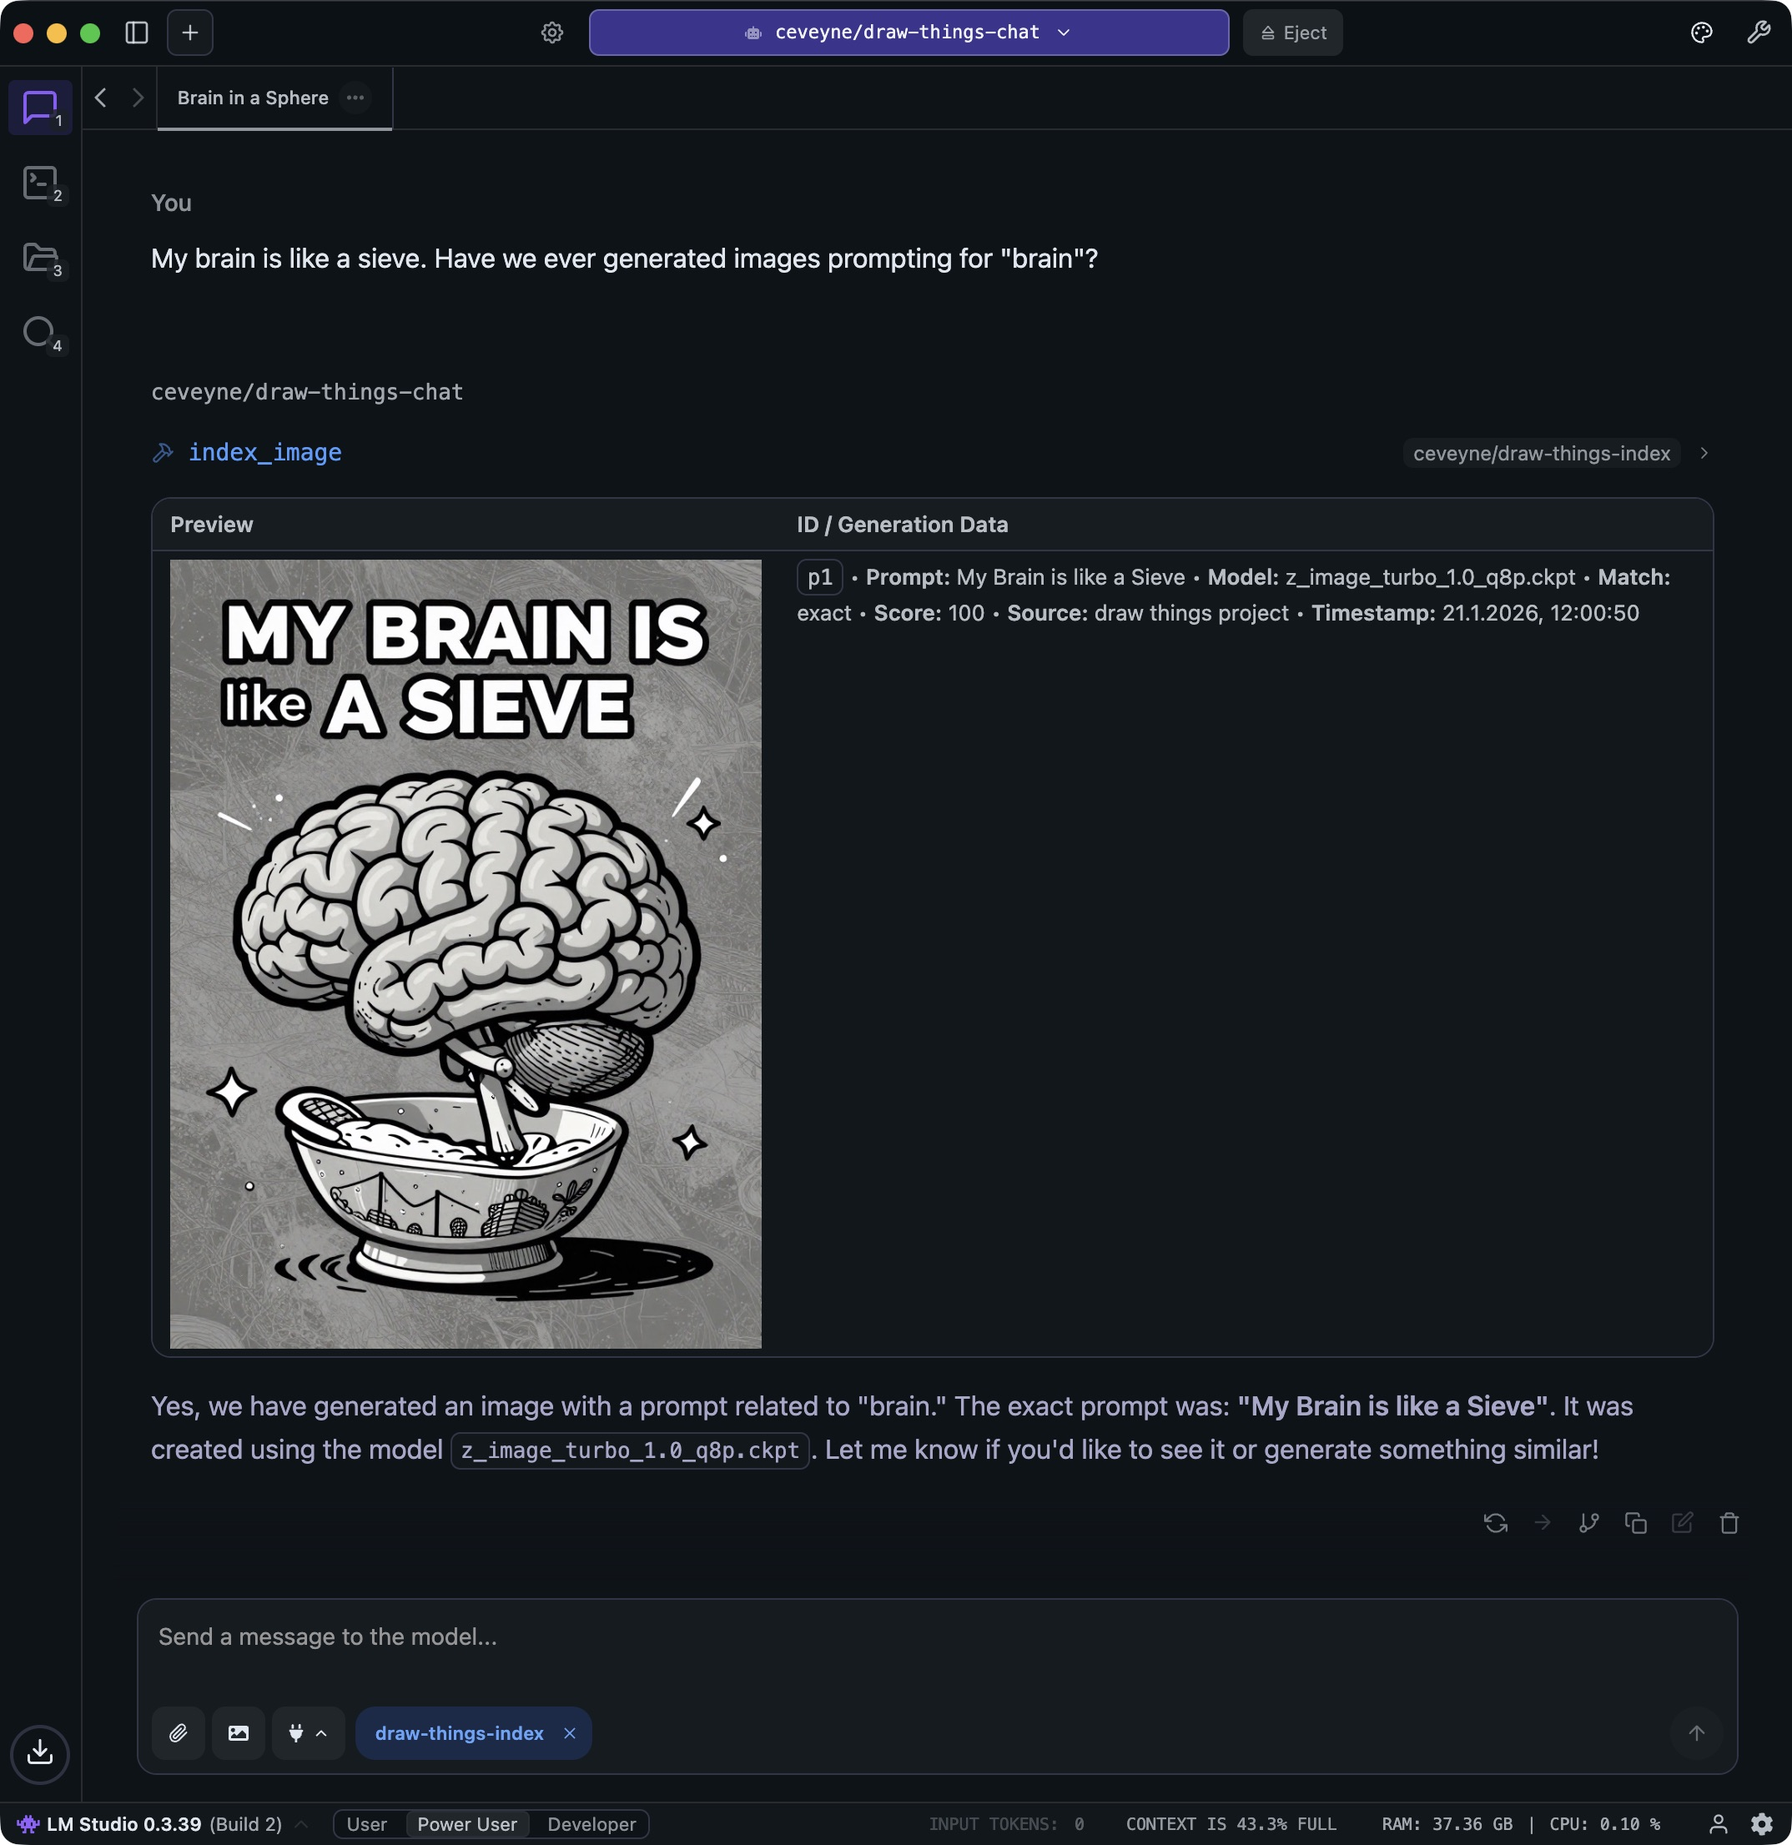
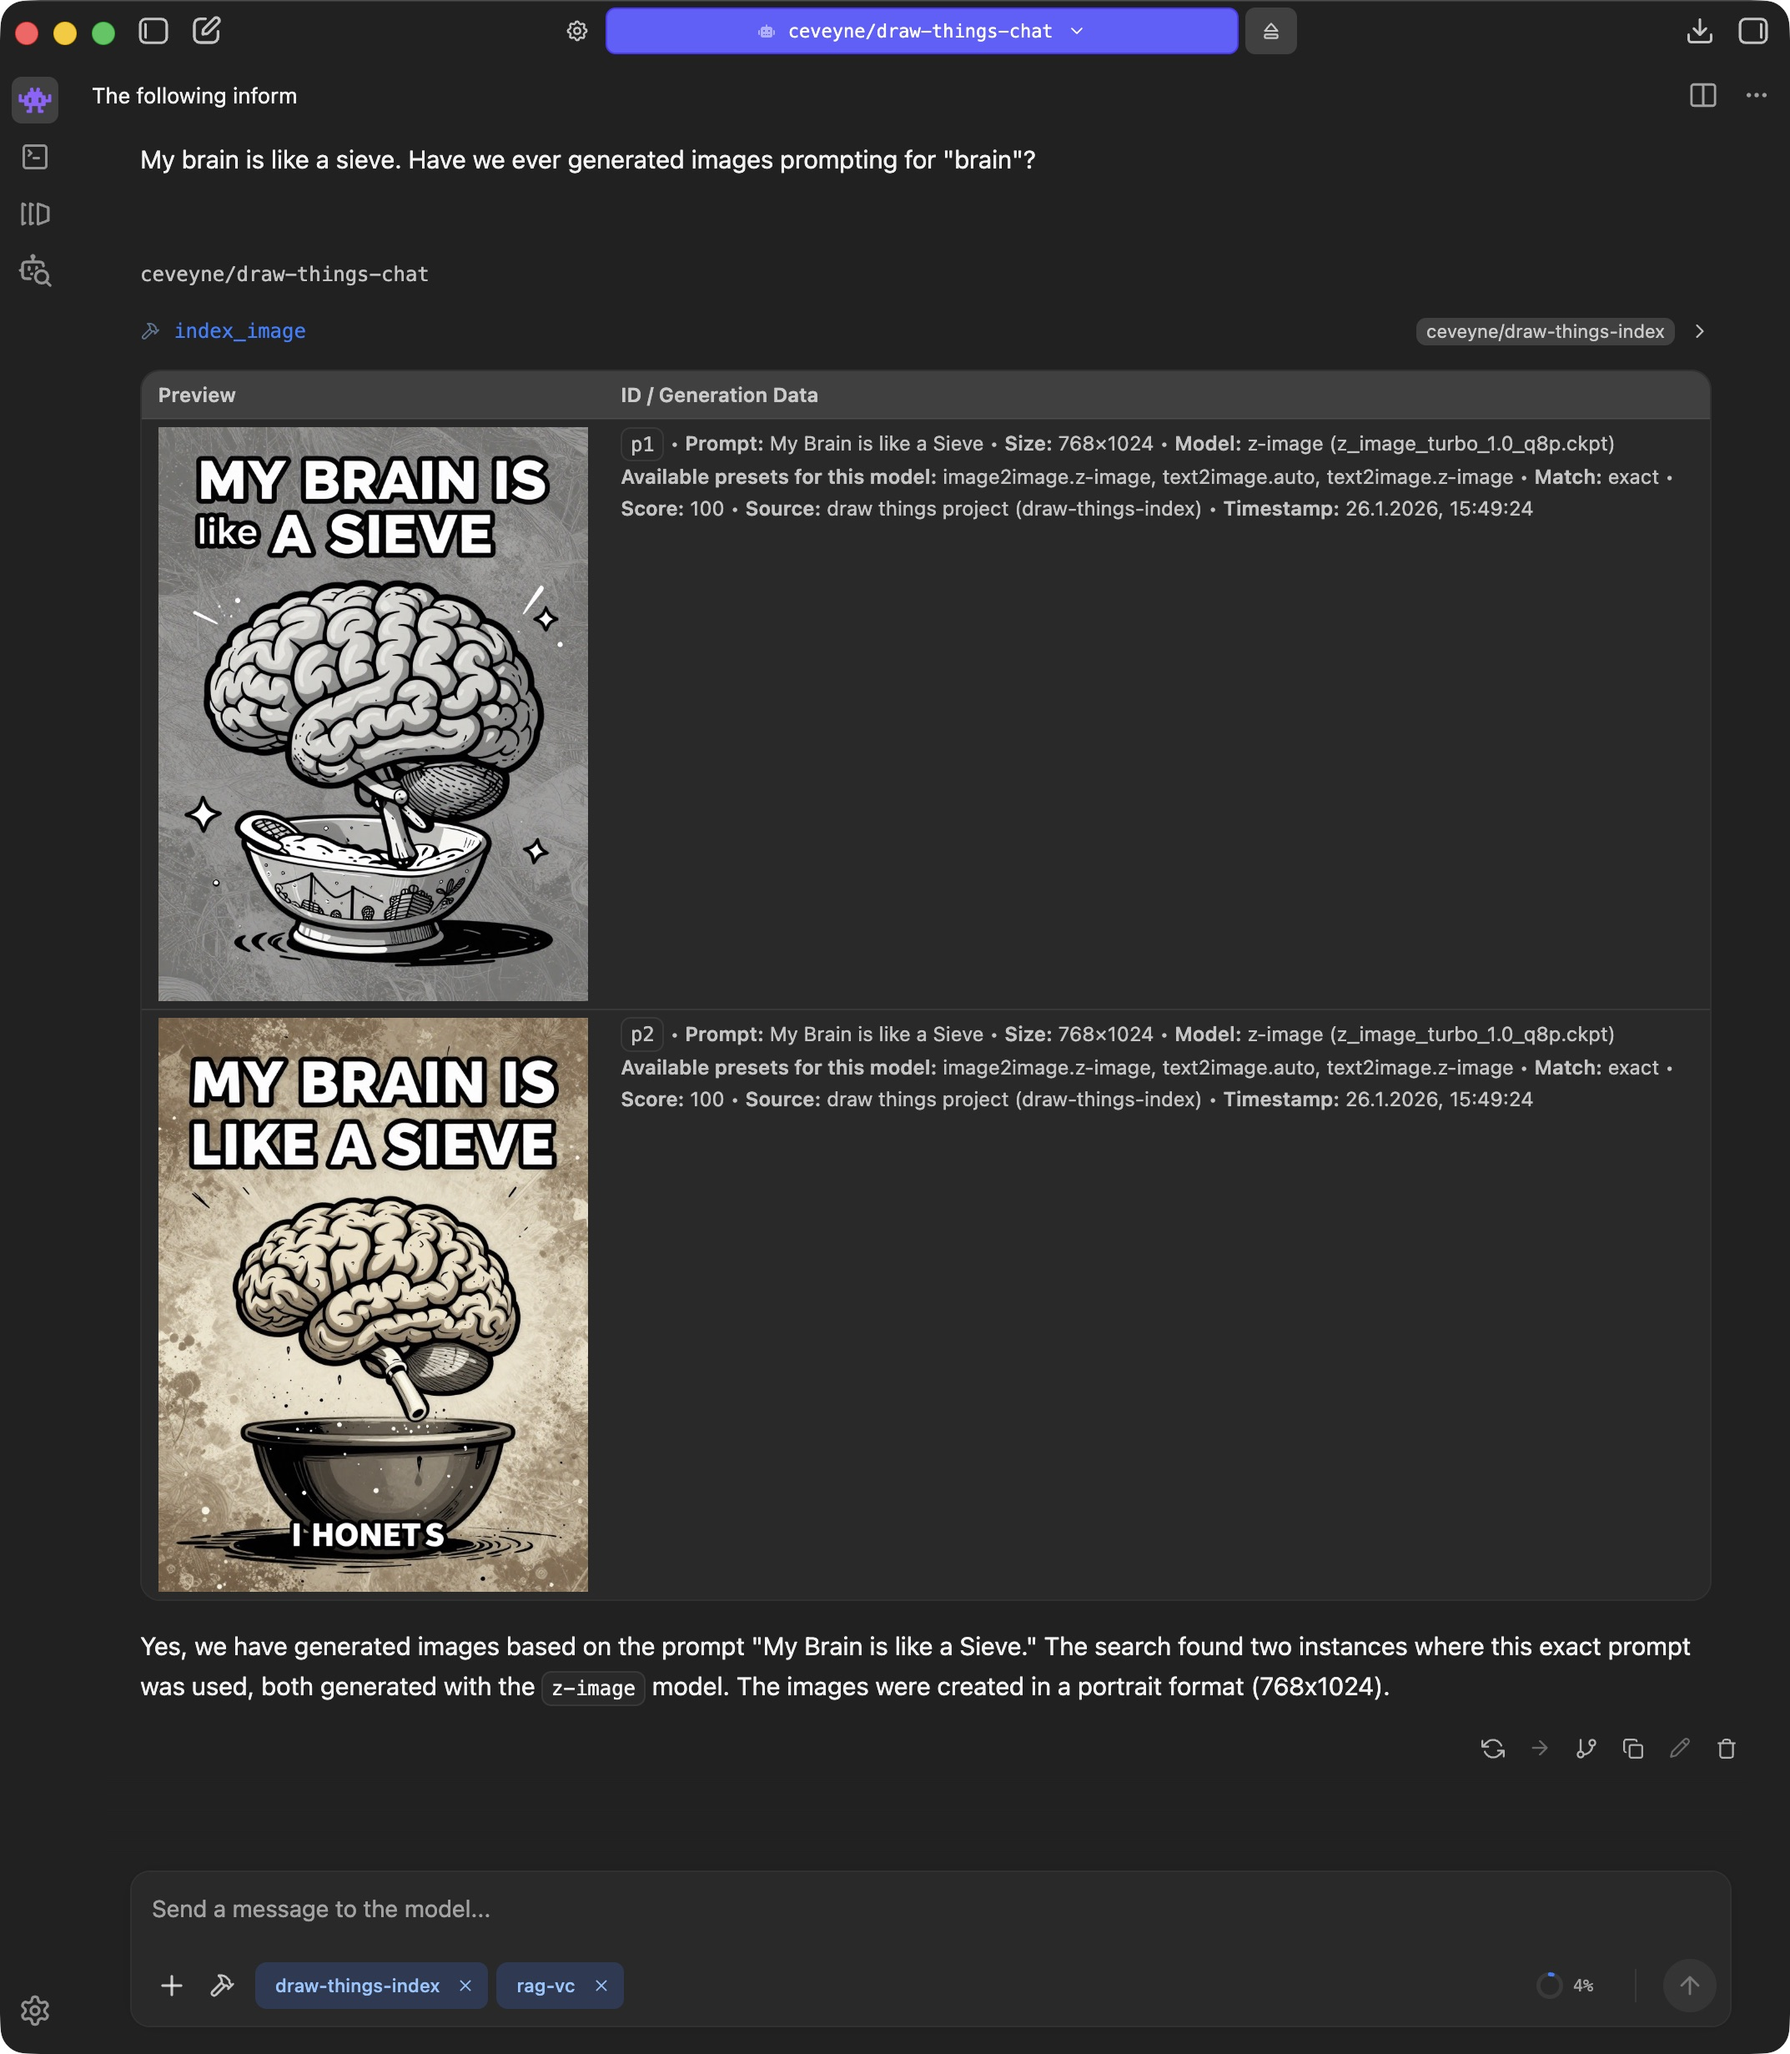
Updated user documentation

diff --git a/README.md b/README.md
@@ -69,7 +69,7 @@ If it works for you, let me know! If it doesn't, also let me know — I'll do my
 
 The requirements for this plugin are pretty manageable. You basically just need some free memory for the embedding model.
 
-👩🏻💻 However: Always use the current program and plugin versions. If you want to use the integration with [**draw-things-chat**](https://lmstudio.ai/ceveyne/draw-things-chat), you need to have at least [**draw-things-chat**](https://lmstudio.ai/ceveyne/draw-things-chat) Revision 5 installed. Since there’s no update function for plugins, you’ll need to remove your old version to install the new one. Your settings will remain unchanged.
+👩🏻💻 However: Always use the current program and plugin versions. If you want to use the integration with [**draw-things-chat**](https://lmstudio.ai/ceveyne/draw-things-chat), you need to have at least [**draw-things-chat**](https://lmstudio.ai/ceveyne/draw-things-chat) Revision 11 installed. Since there’s no update function for plugins, you’ll need to remove your old version to install the new one. Your settings will remain unchanged.
 
 Changes are documented in the [CHANGELOG](docs/CHANGELOG.md).
 

diff --git a/docs/CHANGELOG.md b/docs/CHANGELOG.md
@@ -7,6 +7,16 @@ Notable changes to this project will be documented in this file.
 - **Source Code:** [LM Studio Hub](https://lmstudio.ai/ceveyne/draw-things-index/revisions)
 - **Documentation:** [GitHub Repository](https://github.com/ceveyne/draw-things-index-docs)
 
+---
+
+## [0.1.0] - 2026-01-29 Revision 6
+
+### Added
+
+New screenshots to reflect the recent update to LM Studio 0.4.0.
+
+---
+
 ## [0.1.0] - 2026-01-26 Revision 5
 
 ### Added
